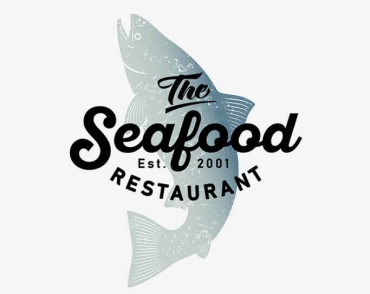
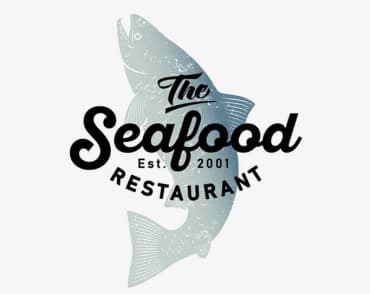
Модальное окно и анимации
оптимизация изображений

diff --git a/index.html b/index.html
@@ -60,8 +60,8 @@
                     </div>
                     <div data-modal class="backdrop is-hidden" >
                         <div class="modal">
-                            <button type="button" class="exit-modal">
-                                <svg data-modal-close class="exit-modal-icon" width="11" height="11">
+                            <button data-modal-close type="button" class="exit-modal">
+                                <svg  class="exit-modal-icon" width="11" height="11">
                                     <use href="./images/exit.svg#icon-exit"></use>
                                 </svg>
                             </button>
